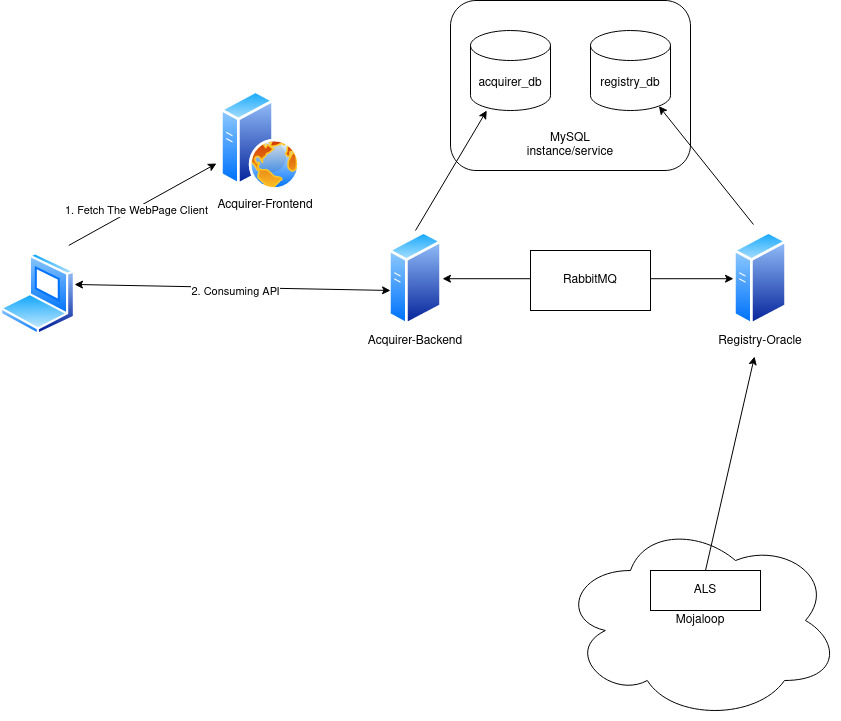
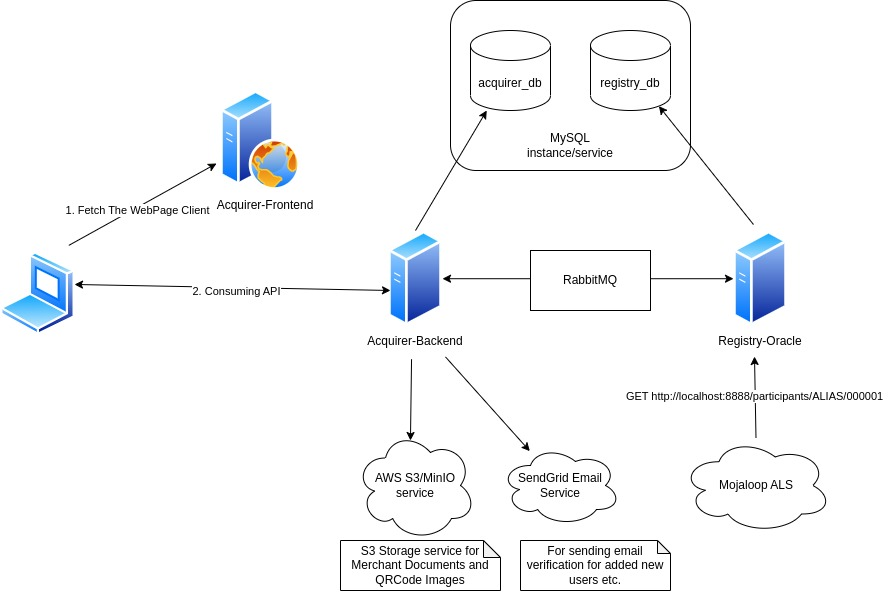
feat(docs): add env config in README, add s3/sendgrid diagram, change port 6666 -> 8888 for oracle

diff --git a/packages/registry-oracle/src/index.ts b/packages/registry-oracle/src/index.ts
@@ -10,7 +10,7 @@ import './services/messageQueueConsumer'
 import { tryInitializeDatabase } from './setup/serviceInitializersSetup'
 
 const HOSTNAME: string = readEnv('HOST', 'localhost') as string
-const PORT: number = readEnv('PORT', 6666, true) as number
+const PORT: number = readEnv('PORT', 8888, true) as number
 
 const app = express()
 app.use(express.json())

diff --git a/packages/acquirer-backend/README.md b/packages/acquirer-backend/README.md
@@ -24,3 +24,45 @@ according to the `.env.test` file.
 
 - `npm run test` when you are inside `<rootProject>/packages/acquirer-backed`
 - `npm run test -w acquirer-backend` when you are at `rootProject` directory.
+
+## Configuration
+
+| Environment Variables          | Default Values              | Description |
+| ------------------------------ | --------------------------- | ----------- |
+| `NODE_ENV`                     | `development`               | Sets the environment for Node.js. Common values: `development`, `production`, `test`. |
+| `APP_URL`                      | `http://localhost:5555`     | URL of the app, used for features like email verification. |
+| `HOST`                         | `0.0.0.0`                   | Host IP address for the server. |
+| `PORT`                         | `5555`                      | Port number for the server. |
+| `FRONTEND_SET_PASSWORD_URL`    | `http://localhost:5173/set-password` | URL for redirecting to set password in frontend, typically used in email verification. |
+| `JWT_SECRET`                   | `merchant-acquirer-jwt_secret` | Secret key for JWT. *(Change in production)* |
+| `JWT_EXPIRES_IN`               | `1d`                        | Expiration time for JWT. Common formats: `1d` for 1 day, `2h` for 2 hours, etc. |
+| **API Key Generation Configuration** |                       | |
+| `API_KEY_LENGTH`               | `64`                        | Length of the generated API key. |
+| `API_KEY_PREFIX`               | `MR`                        | Prefix for the API key. |
+| **MySQL Database Configuration** |                             | |
+| `DB_HOST`                      | `localhost`                 | MySQL database server host. |
+| `DB_PORT`                      | `3306`                      | Port for the MySQL database. |
+| `DB_USERNAME`                  | `merchant_acquirer_user`    | Username for MySQL database. |
+| `DB_PASSWORD`                  | `password`                  | Password for MySQL database. |
+| `DB_DATABASE`                  | `merchant_acquirer_db`      | Name of the MySQL database. |
+| **RabbitMQ Configuration**       |                             | |
+| `RABBITMQ_HOST`                | `127.0.0.1`                 | RabbitMQ server host. |
+| `RABBITMQ_PORT`                | `5672`                      | Port for RabbitMQ server. |
+| `RABBITMQ_USERNAME`            | `guest`                     | Username for RabbitMQ server. *(Change in production)* |
+| `RABBITMQ_PASSWORD`            | `guest`                     | Password for RabbitMQ server. *(Change in production)* |
+| `RABBITMQ_QUEUE`               | `acquirer_to_registry`      | Name of the RabbitMQ queue. |
+| `RABBITMQ_REPLY_QUEUE`         | `registry_reply_acquirer`   | Name of the RabbitMQ reply queue. |
+| **S3/Minio Configuration**       |                             | |
+| `S3_ENDPOINT`                  | `localhost`                 | S3 or Minio server endpoint. |
+| `S3_PORT`                      | `9000`                      | Port for S3 or Minio server. `443` for AWS S3 with HTTPS. |
+| `S3_ACCESS_KEY`                | `minioadmin`                | Access key for S3 or Minio. |
+| `S3_SECRET_KEY`                | `minioadmin`                | Secret key for S3 or Minio. |
+| `S3_REGION`                    | `us-east-1`                 | Region for S3. Ignored by Minio. |
+| `S3_USE_SSL`                   | `false`                     | Set to `true` for HTTPS with AWS S3. |
+| `S3_MERCHANT_BUCKET_NAME`      | `merchant-documents`        | Name of the S3 bucket for merchant documents. |
+| **SendGrid Configuration**       |                             | |
+| `SENDGRID_API_KEY`             | `add-api-key-here`          | API key for SendGrid. Used for services like email verification. |
+| **Log Configuration**            |                             | |
+| `LOG_PATH`                     | `./logs`                    | Path for storing logs. |
+| `LOG_LEVEL`                    | `debug`                     | Logging level. Values: `trace`, `debug`, `info`, `warn`, `error`, etc. |
+| `LOG_DISABLED`                 | `false`                     | Enable or disable logging. |

diff --git a/packages/registry-oracle/README.md b/packages/registry-oracle/README.md
@@ -11,3 +11,31 @@
     <br />
 `npm run registry-oracle:start` when you are at `rootProject` directory.
 
+## Configuration
+
+| Environment Variables          | Default Values        | Description |
+| ------------------------------ | --------------------- | ----------- |
+| `NODE_ENV`                     | `development`         | Specifies the environment in which the Node.js app is running. Common values are `development`, `production`, `test`, etc. |
+| `HOST`                         | `0.0.0.0`             | The host IP address on which the server will listen. |
+| `PORT`                         | `8888`                | The port on which the server will listen. |
+| **MySQL Database Configuration** |                     | |
+| `DB_HOST`                      | `localhost`           | Hostname or IP address of the MySQL database server. |
+| `DB_PORT`                      | `3306`                | Port number for the MySQL database server. |
+| `DB_USERNAME`                  | `registry_oracle_user` | Username for MySQL database authentication. |
+| `DB_PASSWORD`                  | `password`            | Password for MySQL database authentication. |
+| `DB_DATABASE`                  | `merchant_registry_oracle` | Name of the database to use in MySQL. |
+| **RabbitMQ Configuration**       |                     | |
+| `RABBITMQ_HOST`                | `127.0.0.1`           | Hostname or IP address of the RabbitMQ server. |
+| `RABBITMQ_PORT`                | `5672`                | Port number for the RabbitMQ server. |
+| `RABBITMQ_USERNAME`            | `guest`               | Username for RabbitMQ server authentication. *(Change in production)* |
+| `RABBITMQ_PASSWORD`            | `guest`               | Password for RabbitMQ server authentication. *(Change in production)* |
+| `RABBITMQ_QUEUE`               | `acquirer_to_registry` | Name of the RabbitMQ queue to use. |
+| **Alias Generation Configuration** |                   | |
+| `ALIAS_CHECKOUT_MAX_DIGITS`    | `6`                   | Maximum number of digits for alias checkout. |
+| **API Key Generation Configuration** |                | |
+| `API_KEY_LENGTH`               | `64`                  | Length of the generated API key. |
+| `API_KEY_PREFIX`               | `MR`                  | Prefix for the API key. (`MR` for Merchant Registry) |
+| **Log Configuration**            |                     | |
+| `LOG_PATH`                     | `./logs`              | Path where logs will be stored. |
+| `LOG_LEVEL`                    | `debug`               | Level of logging detail. Common values are `trace`, `debug`, `info`, `warn`, `error`, etc. |
+| `LOG_DISABLED`                 | `false`               | Flag to enable or disable logging. |

diff --git a/docs/manual-deployment-guide.md b/docs/manual-deployment-guide.md
@@ -169,7 +169,7 @@ npm run registry-oracle:start
 
 ### Step 9: Add Oracle Endpoint to Mojaloop ALS
 Replace the `127.0.0.1:4001` with the ALS IP Address and Port.
-`registry-oracle:6666` should be reachable from ALS. (Trying pinging `registry-oracle` from ALS container)
+`registry-oracle:8888` should be reachable from ALS. (Trying pinging `registry-oracle` from ALS container)
 
 ```bash
 curl -H "Content-Type: application/json" \
@@ -178,7 +178,7 @@ curl -H "Content-Type: application/json" \
   -d '{
   "oracleIdType": "ALIAS",
   "endpoint": {
-    "value": "http://registry-oracle:6666",
+    "value": "http://registry-oracle:8888",
     "endpointType": "URL"
   },
   "currency": "USD",

diff --git a/packages/acquirer-frontend/README.md b/packages/acquirer-frontend/README.md
@@ -1,0 +1,18 @@
+## Prerequisites
+- pnpm
+- Node.js
+
+
+## Install Dependencies
+1. `pnpm install`
+
+## Run with
+1. `pnpm run dev`
+
+## Configuration
+
+| Environment Variables | Default Values              | Description |
+| --------------------- | --------------------------- | ----------- |
+| `VITE_PORT`           | `5172`                      | Port number for the Vite development server. |
+| `VITE_HOST`           | `0.0.0.0`                   | Host IP address for the Vite development server. |
+| `VITE_API_URL`        | `http://localhost:5555/api/v1` | The base URL for the Backend Acquirer API, used by the Vite application for backend calls. |

diff --git a/README.md b/README.md
@@ -25,6 +25,8 @@ and proceed with the necessary steps in the payment transaction.
 * [Merchant Registry Oracle](./packages/registry-oracle)
   * Will Serve as Oracle for Mojaloop ALS.
 
+See the README.md file on each services for more Environment Variable Configuration options.
+
 ## Deploying on Docker
 * Requirements
     - `docker` and `docker-compose`
